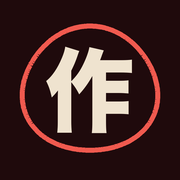
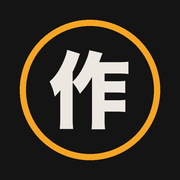
feat: graphite colour scheme in place of oxblood (#14)
## Summary

Oxblood → graphite. Layout and fonts unchanged.

```diff
-ground #1f0a0c  rule #5a1c22  shell #7d1520  biro #f05a4f (red)
+ground #141414  rule #333      shell #2a2a2a  biro #f5a524 (amber)
+bad    #e8705a  (failures only)   current tab: amber underline
```

Icons redrawn (graphite ground, amber ring).

## Evidence

- **Before:** dark red ground, red tab fill.
**After:** the live pages rendered with the new stylesheet at 390px:
Catalogue, Cel, Log and Today all read cleanly.

## Merge Danger

**Door:** two-way

**Blast Radius:** cosmetic; an installed home-screen icon may keep the
old image until re-added.

Changed region(s): [[0.0833, 0.0833, 0.9167, 0.9167], [0.25, 0.25, 0.75, 0.75]]

diff --git a/sakuga/static/app.css b/sakuga/static/app.css
@@ -1,17 +1,18 @@
-/* Sakuga: a convention circle catalogue printed in reverse on oxblood. Ruled whole-cell grid,
-   codes and numbers in Archivo Narrow, red biro marks for state (new: loop, gone: strike). */
+/* Sakuga: a convention circle catalogue printed in reverse on graphite. Ruled whole-cell grid,
+   codes and numbers in Archivo Narrow, amber marks for state (new: loop, gone: strike). */
 
 :root {
-  --ground: #1f0a0c;
-  --ground-2: #2a0e11;
-  --rule: #5a1c22;
-  --shell: #7d1520;
-  --ink: #efe3cf;
-  --ink-2: #c99a92;
-  --ink-3: #9b7770;
-  --biro: #f05a4f;
-  --gold: #e8b04a;
-  --paper: #efe3cf;
+  --ground: #141414;
+  --ground-2: #1d1d1d;
+  --rule: #333;
+  --shell: #2a2a2a;
+  --ink: #ece8e1;
+  --ink-2: #b5afa5;
+  --ink-3: #8a857d;
+  --biro: #f5a524;
+  --bad: #e8705a;
+  --gold: #c9ad7a;
+  --paper: #ece8e1;
   --narrow: "Archivo Narrow", "Arial Narrow", sans-serif;
   --sans:
     -apple-system, blinkmacsystemfont, "Hiragino Sans",
@@ -118,7 +119,7 @@ a:hover {
 }
 
 .dot-bad {
-  background: var(--biro);
+  background: var(--bad);
 }
 
 .dot-run {
@@ -157,6 +158,7 @@ a:hover {
 
 .tabs a[aria-current="page"] {
   background: var(--shell);
+  box-shadow: inset 0 -3px 0 var(--biro);
   color: var(--ink);
   font-weight: 600;
 }
@@ -345,7 +347,7 @@ main {
   place-items: center;
   height: 100%;
   font-size: 11px;
-  color: #6b3a36;
+  color: #6b665e;
   background: var(--paper);
 }
 
@@ -457,7 +459,7 @@ select {
 button {
   padding: 9px 16px;
   background: var(--shell);
-  border-color: var(--shell);
+  border-color: var(--ink-3);
   font-weight: 600;
   cursor: pointer;
 }
@@ -720,7 +722,7 @@ button:disabled {
 }
 
 .st-failed .res {
-  color: var(--biro);
+  color: var(--bad);
   font-weight: 600;
 }
 
@@ -762,7 +764,7 @@ details summary {
 }
 
 .srcs li.bad {
-  color: var(--biro);
+  color: var(--bad);
 }
 
 .srcs em {

diff --git a/sakuga/templates/base.html b/sakuga/templates/base.html
@@ -3,7 +3,7 @@
 <head>
   <meta charset="utf-8">
   <meta name="viewport" content="width=device-width, initial-scale=1, viewport-fit=cover">
-  <meta name="theme-color" content="#1f0a0c">
+  <meta name="theme-color" content="#141414">
   <meta name="apple-mobile-web-app-capable" content="yes">
   <meta name="apple-mobile-web-app-status-bar-style" content="black-translucent">
   <meta name="apple-mobile-web-app-title" content="Sakuga">

diff --git a/DESIGN.md b/DESIGN.md
@@ -1,23 +1,24 @@
 # Design
 
-Sakuga is laid out like a convention circle catalogue printed in reverse on oxblood: every cel is a
-numbered cell in a ruled grid, and state is marked by hand in red biro. Built 2026-11-05;
+Sakuga is laid out like a convention circle catalogue printed in reverse on graphite: every cel is a
+numbered cell in a ruled grid, and state is marked by hand in amber. Built 2026-11-05;
 `sakuga/static/app.css` is the source of truth for values.
 
 ## Palette
 
 | Token      | Value     | Job                                                            |
 | ---------- | --------- | -------------------------------------------------------------- |
-| `ground`   | `#1f0a0c` | Page ground (dark mode only; the phone is read in the morning) |
-| `ground-2` | `#2a0e11` | Hover and control fill                                         |
-| `rule`     | `#5a1c22` | Every rule, border and grid line, 1px                          |
-| `shell`    | `#7d1520` | Current tab, primary button                                    |
-| `ink`      | `#efe3cf` | Text                                                           |
-| `ink-2`    | `#c99a92` | Secondary text and labels                                      |
-| `ink-3`    | `#9b7770` | Gone and disabled text                                         |
-| `biro`     | `#f05a4f` | Hand marks only: the new-cel loop, the gone strike, failures   |
-| `gold`     | `#e8b04a` | Cell codes, counts, price history                              |
-| `paper`    | `#efe3cf` | Ground behind every cel photo, so paint reads true             |
+| `ground`   | `#141414` | Page ground (dark mode only; the phone is read in the morning) |
+| `ground-2` | `#1d1d1d` | Hover and control fill                                         |
+| `rule`     | `#333333` | Every rule, border and grid line, 1px                          |
+| `shell`    | `#2a2a2a` | Current tab (amber underline), primary button                  |
+| `ink`      | `#ece8e1` | Text                                                           |
+| `ink-2`    | `#b5afa5` | Secondary text and labels                                      |
+| `ink-3`    | `#8a857d` | Gone and disabled text                                         |
+| `biro`     | `#f5a524` | Hand marks only (amber): the new-cel loop, the gone strike     |
+| `bad`      | `#e8705a` | Failures on the Log page, nothing else                         |
+| `gold`     | `#c9ad7a` | Cell codes, counts, price history                              |
+| `paper`    | `#ece8e1` | Ground behind every cel photo, so paint reads true             |
 
 ## Type
 
@@ -40,5 +41,5 @@ numbered cell in a ruled grid, and state is marked by hand in red biro. Built 20
 ## Rules
 
 - No radius, no shadows, no gradients. Depth comes from rules and the paper photo ground.
-- Biro red is a state, never decoration.
+- The amber biro is a state, never decoration. No red anywhere but failures (Luke disliked the oxblood scheme, 2026-11-06).
 - Empty states are a ruled box with one sentence and the next step.
